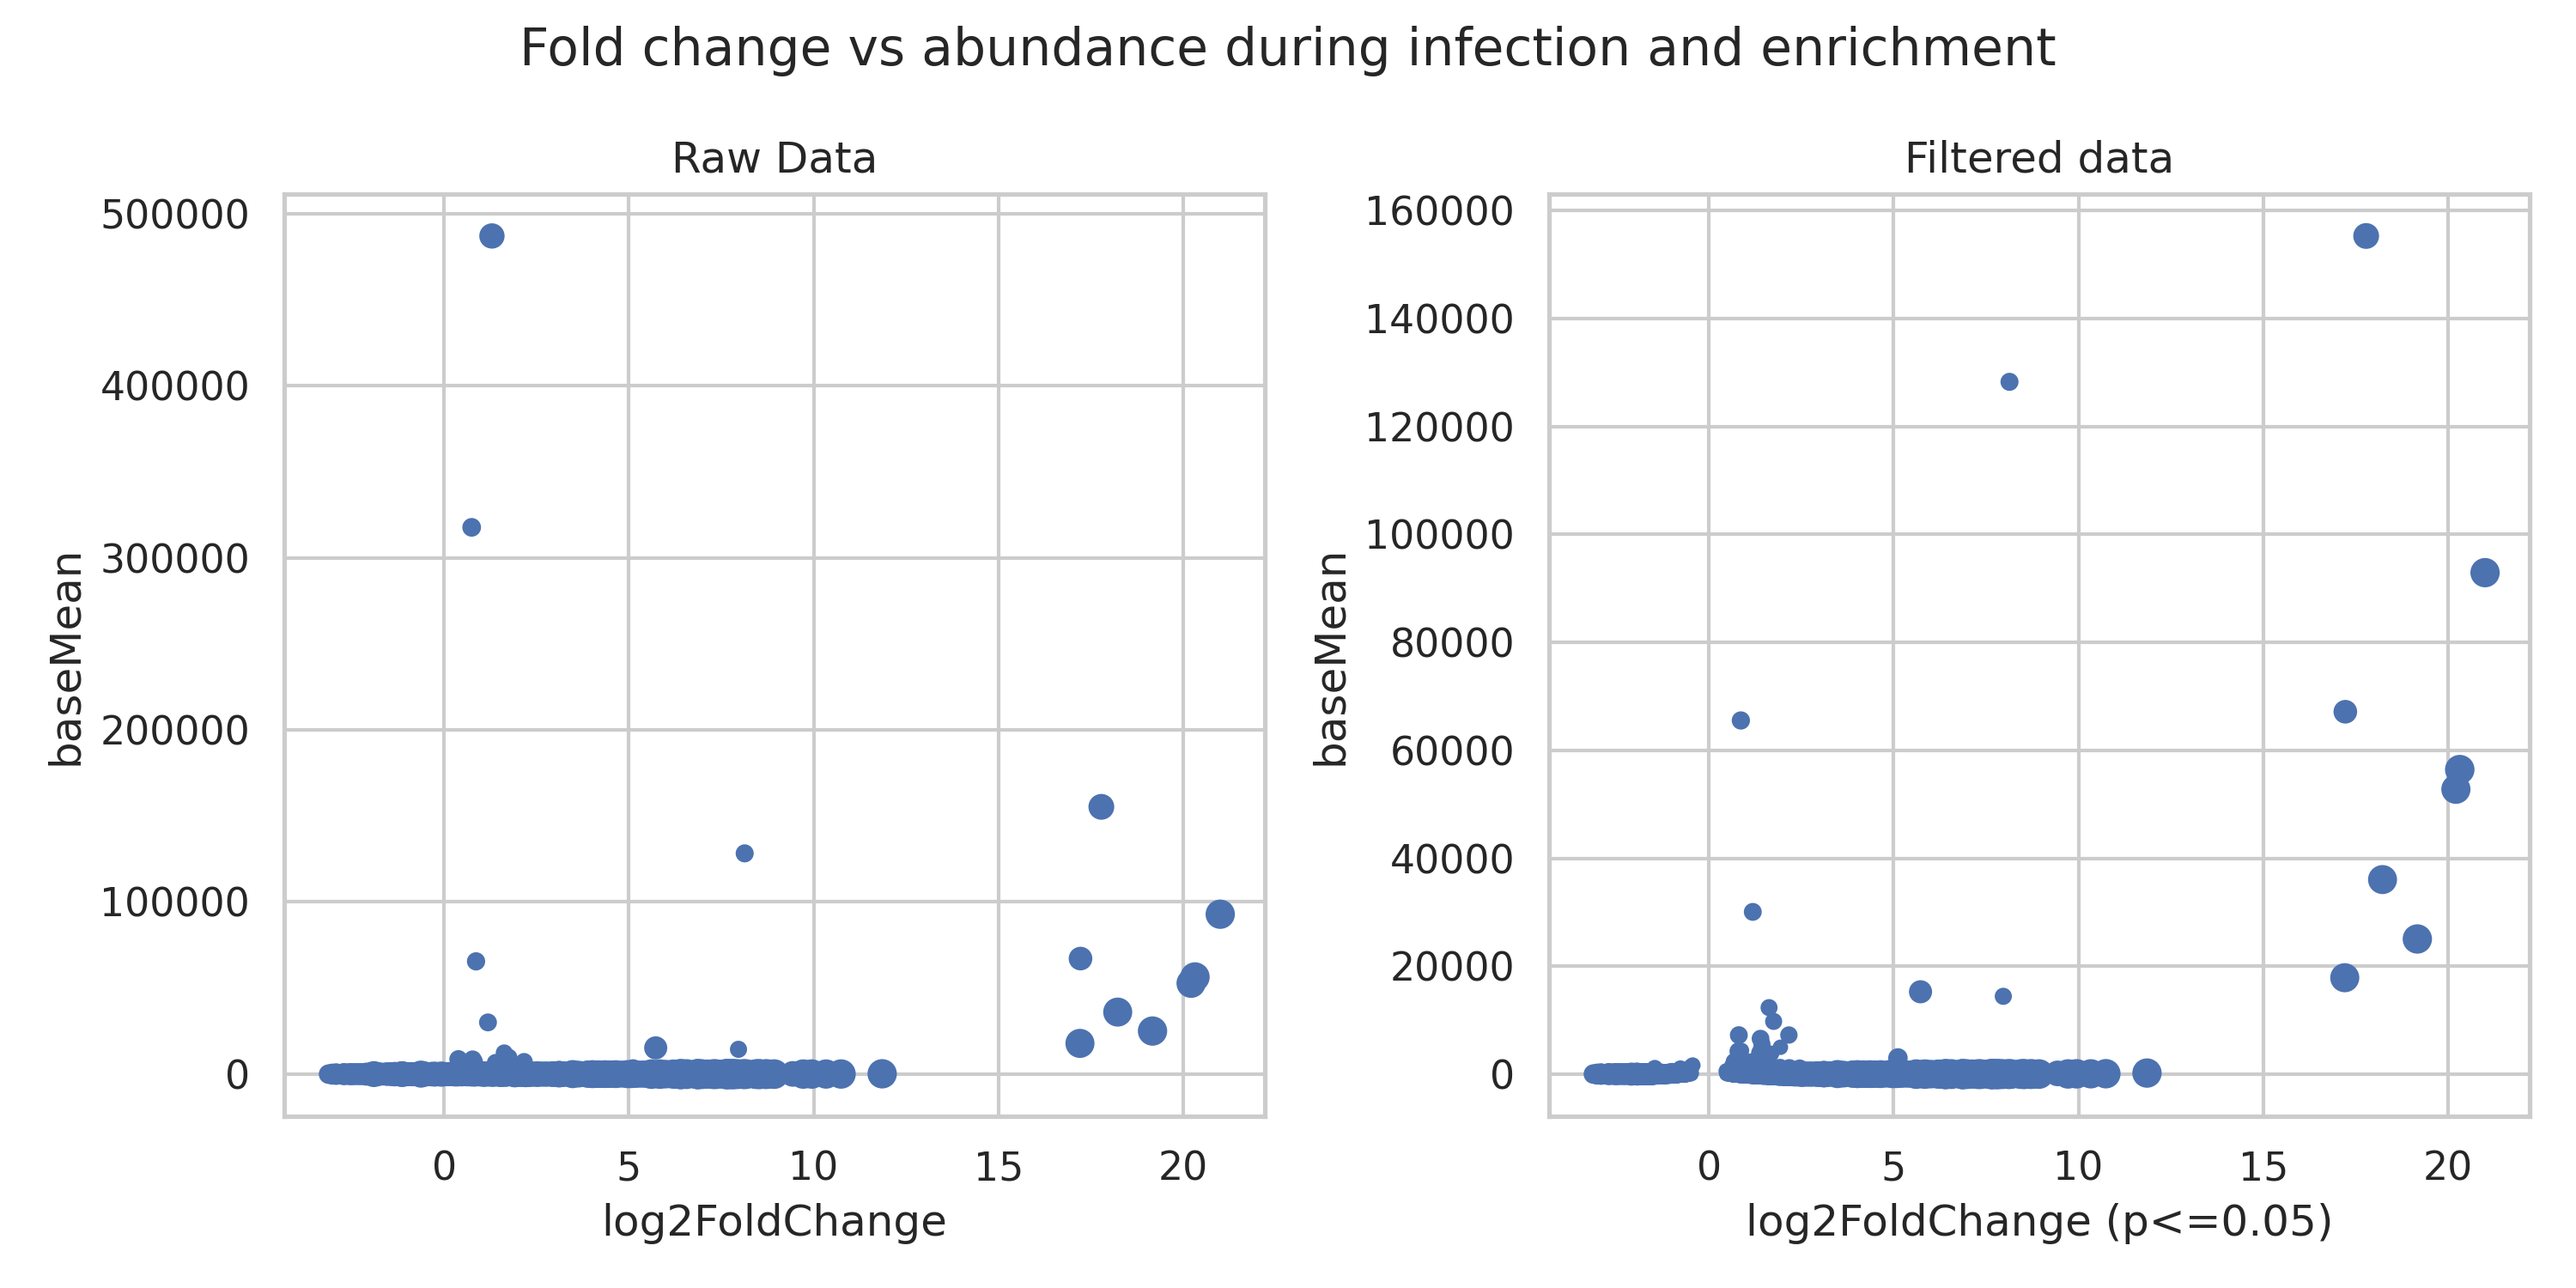
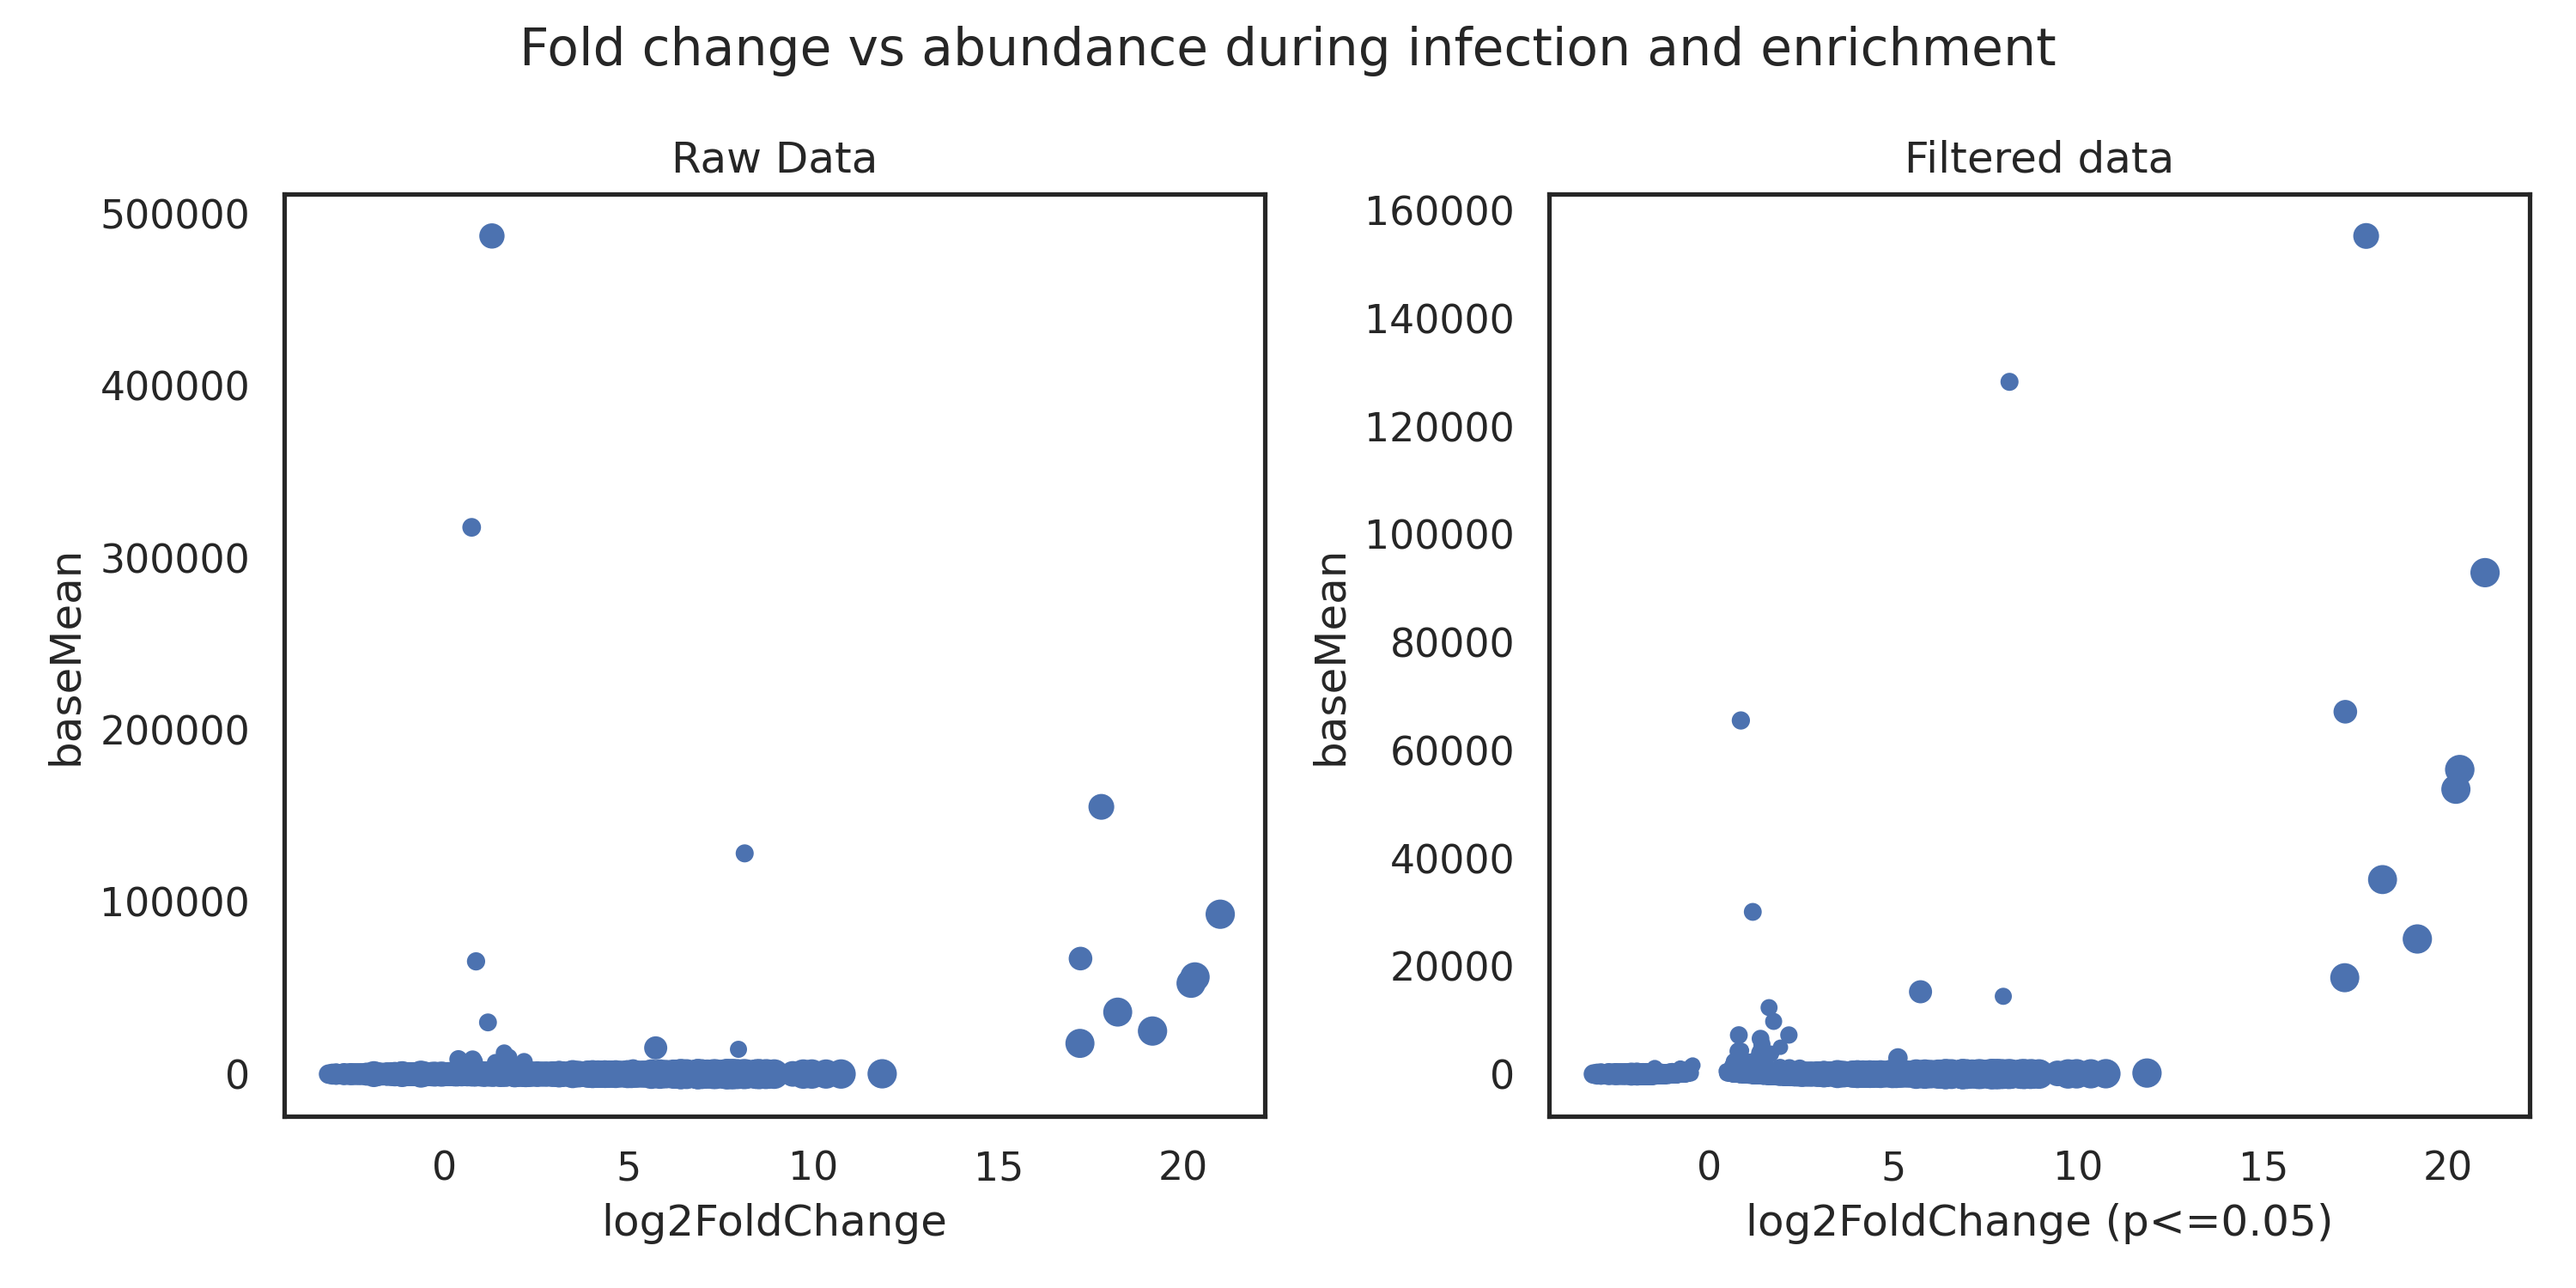
Remove grid from theme

diff --git a/deseq2/star/graph_genecounts_deseq2.py b/deseq2/star/graph_genecounts_deseq2.py
@@ -1,13 +1,15 @@
 import matplotlib.pyplot as plt
 import pandas as pd
 import seaborn as sns
+import numpy as np
 
 # Load the data
 data_infection = pd.read_csv("geneCounts_infection.csv")
-filtered_infection = data_infection[data_infection["padj"] <= 0.05]
-
+filtered_infection = data_infection[data_infection["padj"] <= 0.05].copy()
+filtered_infection.loc[:, "p_adj_log"] = -np.log(filtered_infection["padj"])
+filtered_infection.to_csv("filtered_geneCounts_significant.csv", index=False)
 # Plot the data
-sns.set_theme(style="whitegrid")
+sns.set_theme(style="white")
 fig, axes = plt.subplots(1, 2, figsize=(10, 5))
 
 # Plot infection
@@ -39,3 +41,19 @@ plt.xlabel("log2FoldChange (p<=0.05)")
 fig.suptitle("Fold change vs abundance during infection and enrichment")
 plt.tight_layout()
 plt.savefig("infection_test.png", dpi=300)
+plt.close()
+
+# Graph -log10 padj vs. log2FoldChange
+sns.scatterplot(
+    data = filtered_infection,
+    x = "p_adj_log",
+    y = "log2FoldChange",
+    linewidth = 0,
+    legend = False
+)
+plt.xlabel("-log10 P value")
+plt.ylabel("Log2 foldchange")
+plt.title("Enrichment of 5' triphosphorylated RNAs during infection")
+plt.tight_layout()
+plt.savefig("-log_p_adj.png", dpi=300)
+plt.close()
